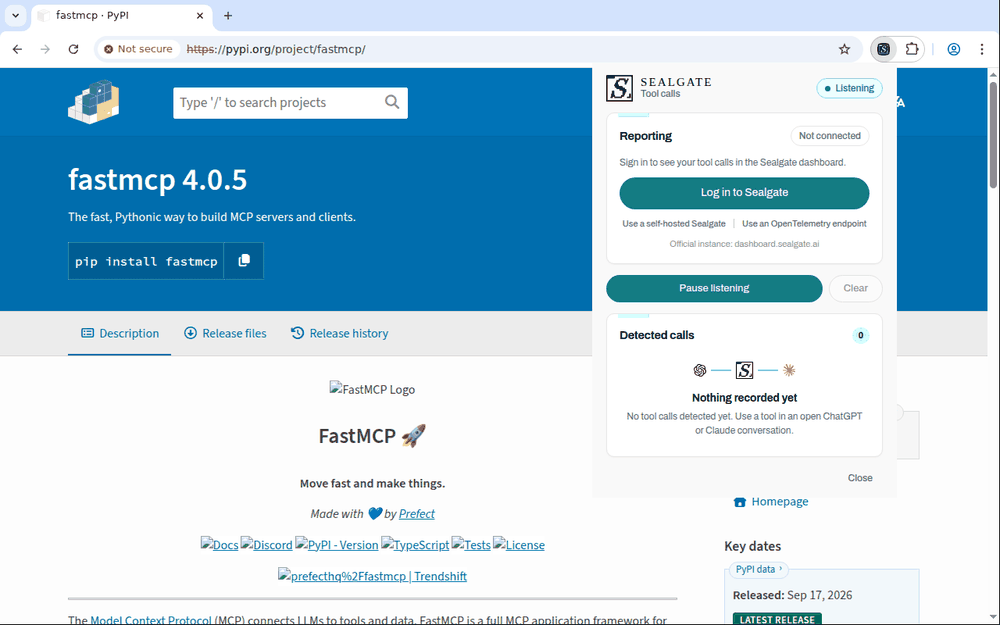
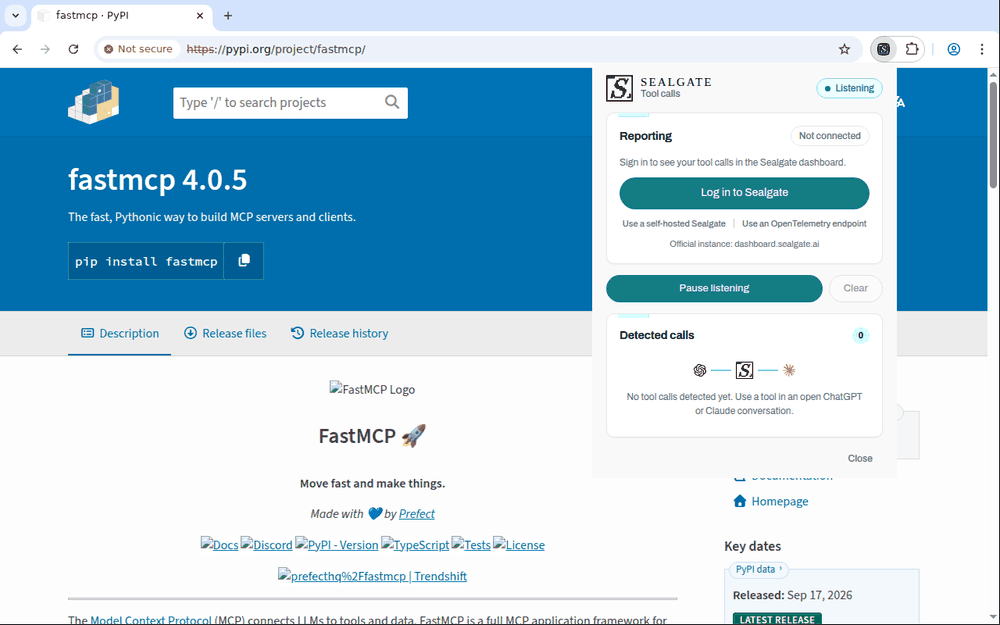
Address review findings
Make the SealGate mark decorative next to its wordmark so screen readers
name the brand once, tolerate a tool-call record from an unknown site in
the agent mark, hide the connection status chip while a sign-in is in
progress, style the scroll container's bar in Firefox as well as
Chromium, lift low-contrast text and focus rings above WCAG AA, drop the
empty-state title that repeated the sentence below it, and refresh the
screenshots.

Claude-Session: https://claude.ai/code/session_01T7MPgmAD8Jo9oVJJ871GqZ

Changed region(s): [[0.62, 0.608, 0.868, 0.6992], [0.682, 0.3648, 0.806, 0.3952], [0.837, 0.7296, 0.868, 0.7904]]

diff --git a/src/popup/theme.css b/src/popup/theme.css
@@ -9,13 +9,6 @@
   font-display: swap;
   src: url('/fonts/archivo-latin.woff2') format('woff2');
 }
-@font-face {
-  font-family: 'JetBrains Mono';
-  font-style: normal;
-  font-weight: 400 800;
-  font-display: swap;
-  src: url('/fonts/jetbrains-mono-latin.woff2') format('woff2');
-}
 
 :root {
   color-scheme: light;
@@ -30,19 +23,16 @@
   --grid-faint: #f1f1f1;
   --teal: #147c83;
   --teal-deep: #0f6469;
-  --teal-tint: rgba(20, 124, 131, 0.1);
   --cyan: #c3fffd;
   --cyan-deep: #7de6e2;
   --cyan-tint: #e8fffe;
-  --green: #007a52;
-  --green-tint: rgba(0, 199, 129, 0.14);
   --amber: #b45309;
+  --amber-text: #92400e;
   --amber-tint: rgba(254, 188, 46, 0.2);
   --red: #c3001a;
   --red-tint: rgba(255, 59, 77, 0.1);
   --font-sans: 'Archivo', system-ui, -apple-system, sans-serif;
   --font-serif: Georgia, 'Times New Roman', Times, serif;
-  --font-mono: 'JetBrains Mono', ui-monospace, SFMono-Regular, Menlo, monospace;
 }
 
 * {
@@ -98,7 +88,7 @@ a:hover {
 }
 
 :focus-visible {
-  outline: 3px solid var(--cyan-deep);
+  outline: 3px solid var(--teal);
   outline-offset: 2px;
 }
 
@@ -225,7 +215,7 @@ a:hover {
 .chip-paused {
   background: var(--amber-tint);
   border-color: transparent;
-  color: var(--amber);
+  color: var(--amber-text);
 }
 
 .chip-dot {
@@ -257,10 +247,6 @@ a:hover {
 
 .muted {
   color: var(--graphene);
-}
-
-.mono {
-  font-family: var(--font-mono);
 }
 
 /* Form controls. */
@@ -307,4 +293,13 @@ a:hover {
 
 .scroll::-webkit-scrollbar-thumb:hover {
   background-color: var(--graphene-light);
+}
+
+/* Firefox ignores ::-webkit-scrollbar; the standard properties are scoped to
+   it because setting them in Chromium switches to the auto-hiding overlay bar. */
+@supports not selector(::-webkit-scrollbar) {
+  .scroll {
+    scrollbar-color: var(--grid) transparent;
+    scrollbar-width: thin;
+  }
 }

diff --git a/src/popup/AgentMark.svelte b/src/popup/AgentMark.svelte
@@ -1,11 +1,19 @@
 <script lang="ts">
-  import { AGENT_MARKS } from './brand';
+  import { AGENT_MARKS, type AgentMark } from './brand';
   import type { SiteId } from '../shared/tracker';
 
   export let site: SiteId;
   export let size = 14;
 
-  $: mark = AGENT_MARKS[site];
+  // A record from an older build could carry a site this build does not know.
+  const unknownMark: AgentMark = {
+    viewBox: '0 0 24 24',
+    path: '',
+    color: 'currentColor',
+  };
+
+  $: mark =
+    (AGENT_MARKS as Partial<Record<string, AgentMark>>)[site] ?? unknownMark;
 </script>
 
 <svg

diff --git a/src/popup/App.svelte b/src/popup/App.svelte
@@ -155,7 +155,6 @@
           <span class="empty-line"></span>
           <AgentMark site="claude" size={16} />
         </div>
-        <p class="empty-title">Nothing recorded yet</p>
         <p class="muted">
           No tool calls detected yet. Use a tool in an open ChatGPT or Claude
           conversation.
@@ -289,12 +288,6 @@
     display: block;
     height: 2px;
     width: 26px;
-  }
-
-  .empty-title {
-    color: var(--black);
-    font-size: 14px;
-    font-weight: 600;
   }
 
   .conversations {

diff --git a/src/popup/Connection.svelte b/src/popup/Connection.svelte
@@ -118,7 +118,7 @@
 <section class="card connection" aria-labelledby="connection-heading">
   <div class="card-header">
     <h2 id="connection-heading">Reporting</h2>
-    {#if connection?.destination}
+    {#if connection?.destination && !connection.signingIn}
       <span class="chip chip-active">
         <span class="chip-dot"></span>
         Connected
@@ -330,7 +330,7 @@
   }
 
   .hint {
-    color: var(--graphene-light);
+    color: var(--graphene);
     font-size: 11px;
     text-align: center;
   }

diff --git a/src/popup/Mark.svelte b/src/popup/Mark.svelte
@@ -6,7 +6,6 @@
   } from './brand';
 
   export let size = 24;
-  export let title = 'SealGate';
 </script>
 
 <svg
@@ -14,8 +13,7 @@
   width={size}
   height={size}
   viewBox={SEALGATE_MARK_VIEWBOX}
-  role="img"
-  aria-label={title}
+  aria-hidden="true"
 >
   <path d={SEALGATE_MARK_FRAME_PATH} />
   <path d={SEALGATE_MARK_LETTER_PATH} />

diff --git a/public/fonts/README.md b/public/fonts/README.md
@@ -1,11 +1,8 @@
 # Bundled fonts
 
-Both files are the latin subsets served by sealgate.ai, bundled so the popup
-renders in the product typeface without loading anything from the network.
+The latin subset served by sealgate.ai, bundled so the popup renders in the
+product typeface without loading anything from the network.
 
 - `archivo-latin.woff2` - Archivo, variable weight 100-900.
   Copyright 2020 The Archivo Project Authors
   (https://github.com/Omnibus-Type/Archivo). SIL Open Font License 1.1.
-- `jetbrains-mono-latin.woff2` - JetBrains Mono, variable weight 400-800.
-  Copyright 2020 The JetBrains Mono Project Authors
-  (https://github.com/JetBrains/JetBrainsMono). SIL Open Font License 1.1.
